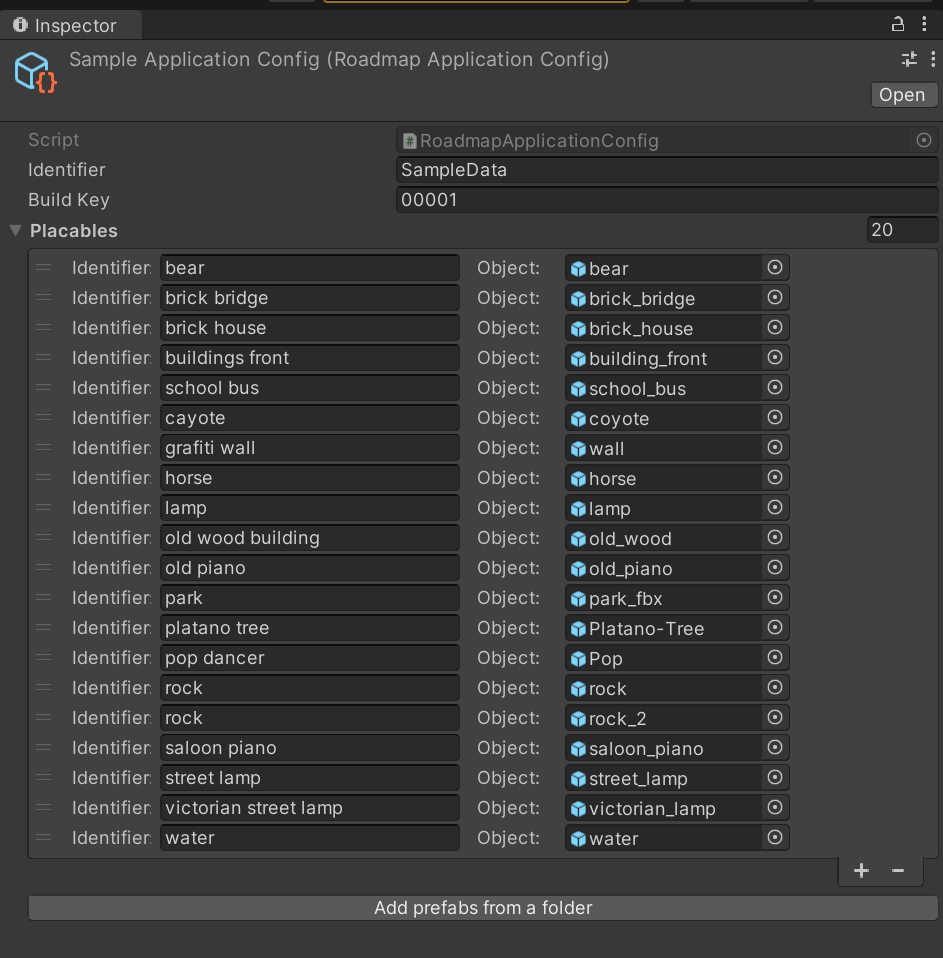
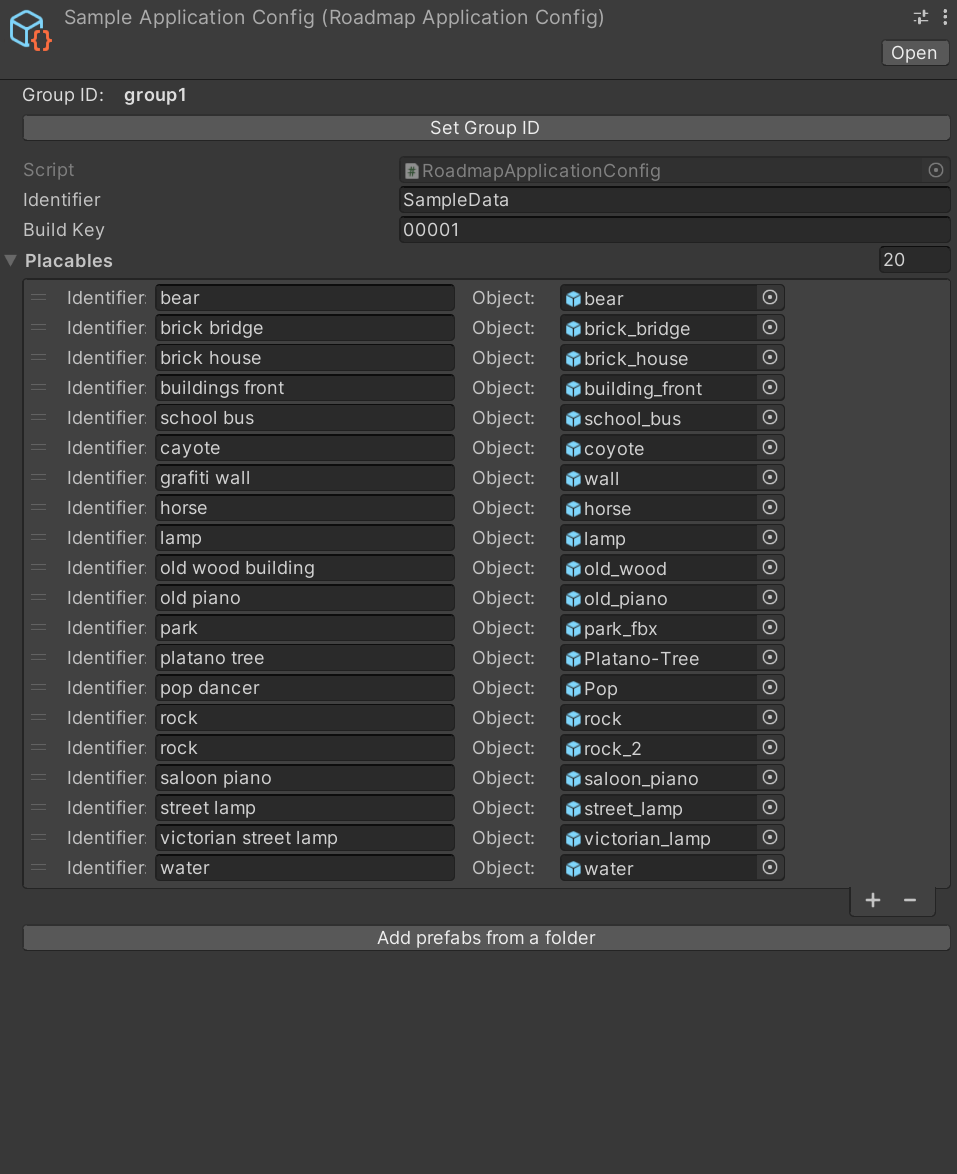
Update readme

Changed region(s): [[0.0, 0.0, 1.0, 0.8779], [0.0308, 0.9081, 1.0, 0.9687], [0.0, 0.7871, 0.0308, 0.8173]]

diff --git a/README.md b/README.md
@@ -28,15 +28,19 @@ Note that the guides are written primarily for android, but they apply to iOS bu
 ![add package url](Media/figures/paste_git_url.png)
   - The link can be found in on github:
 ![copy package url](Media/figures/copy_git_url.png)
-- Once it finishes installing, setup URP. Optionally, you may use the profiles shipped with this package. In the project windows it can be found in `Pacakges` > `roadmap-core` > `Assets` > `Essentials` > `Settings`
+- Configure the defaults of the project by selecting `Roadmap` > `Setup URP default assets`
+![project defaults](Media/figures/menu_setup_proj_default.png)
+- Setup URP. Optionally, you may use the profiles shipped with this package. In the project windows it can be found in `Pacakges` > `roadmap-core` > `Assets` > `Essentials` > `Settings`
   - Update project with default URP settings: `Roadmap` > `Setup URP default assets`
 ![URP default settings menu item](Media/figures/menu_urp_default.png)
   - Update the MRTK shaders: `Mixed Reality` > `Toolkit` > `Utilities` > `Upgrade MRTK Standard Shaders for Universal Render Pipeline`
-- Follow instructions in [this issue comment](https://github.com/microsoft/MixedRealityToolkit-Unity/issues/10449#issuecomment-1111163353) if you get the following error when building:
+- If you get the following error when building:
 ```sh
 Shader error in 'Mixed Reality Toolkit/Standard'
 ```
-
+    - Use `Roadmap` > `Apply MRTK shader patch` to apply patch:
+![mrtk patch](Media/figures/menu_apply_mrtk_patch.png)
+    - The above is a fix following instructions in [this issue comment](https://github.com/microsoft/MixedRealityToolkit-Unity/issues/10449#issuecomment-1111163353). The above menu item applys the patch [Media/MRTK_StandardShader_fix.patch](Media/MRTK_StandardShader_fix.patch)
 
 ## Usage
 
@@ -60,6 +64,17 @@ To use the configuration in the builds, you can add them to the `PlaceablesManag
 
 To see how the respective AR (mobile) and VR (oculus quest) scenes would be configured, please see the AR and VR scenes available with the pacakge (see below). The necessary prefabs are also available in the package. Instead of configuring your own scenes, you can duplicate them into the project to add new functionalies. 
 ![ar vr scene in package](Media/figures/AR_VR_scenes.png)
+
+### Synchronization
+To synchronize data between devices/group members:
+- Make sure to use the same group ID, which can be set by clicking `Set Group ID` in the config (See above images for reference). 
+- Make sure the same prefabs and the corresponding config files are used before building the application on either end.
+
+Note that the scene data is synchronize using a unique ID created from the `groupID`, the `identifier` of the config and the `BuildID`. If these three values are the same between the devices/group members, you sync data between them.
+
+You may use the `BuildID` as a very crude version control system:
+- When you have a scene you want to version, make sure the data is pushed to the remote (using `sync` or `overwrite remote` options in the built application).
+- Build the application with a new `BuildID` to test a different setup.
 
 ### Adding models
 You can add/remove models through the inspector of a corresponding config (see above images) under `Placeables` using the `+` and `-` buttons. Each entry in `Placeables` should have a unique name and the corresponding prefab object. If there are duplicate entries (same identifier used or same prefab used), you will get a warning message and the option to remove duplicates along with the option to fix them.
